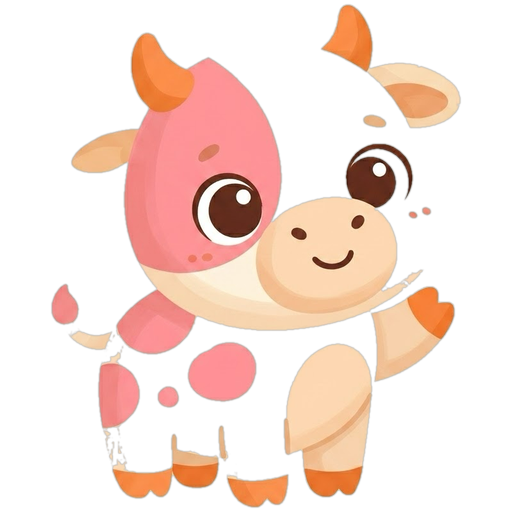
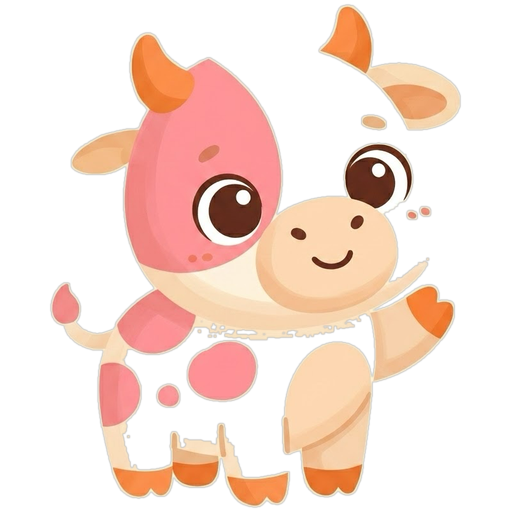
fix(art): tighten keying + dilate + render high quality
The flood-fill at threshold 60 was leaking 1-2 px into character
silhouettes on the most cream-close characters (sheep wool edges,
duck belly edges) — visible in the running app as eroded outlines
when the sprite was scaled down to ~140 dp on the meadow.

Two changes:
1. optimize_art.py — lowered FLOOD_THRESH 60 → 42 and added a 2 px
   MaxFilter dilation pass on the alpha mask before the Gaussian
   feather. The dilation recovers any character-edge pixel the
   conservative flood erroneously caught. Net effect: clean
   transparent backgrounds AND intact character silhouettes.
2. AnimalView — bumped Image.asset filterQuality from default to
   FilterQuality.high so the on-screen downscale doesn't drop
   low-alpha edge pixels.

Re-rendered all 7 zoo sprite assets and the matching goldens.

diff --git a/lib/features/games/zoo/animal_view.dart b/lib/features/games/zoo/animal_view.dart
@@ -91,6 +91,7 @@ class _AnimalViewState extends ConsumerState<AnimalView>
           widget.config.assetPath,
           width: widget.tileSize,
           height: widget.tileSize,
+          filterQuality: FilterQuality.high,
         ),
       ),
     );

diff --git a/scripts/optimize_art.py b/scripts/optimize_art.py
@@ -57,13 +57,20 @@ ASSETS: list[tuple[str, str, str]] = [
 SPRITE_SIZE = 512
 SCENE_WIDTH = 2048
 # Floodfill threshold — distance between a candidate pixel and its
-# flood-fill seed (corner pixel). Generous enough to bridge subtle
-# watercolor-texture variations in the cream background.
-FLOOD_THRESH = 60
+# flood-fill seed (corner pixel). Conservative so we never leak into
+# character interiors (sheep wool, duck belly are dangerously close to
+# the background cream). The dilation step below recovers any pixels
+# we wrongly pulled in.
+FLOOD_THRESH = 42
 
 # Magenta marker — placed by floodfill into background regions so we can
 # distinguish them. The character art never contains pure magenta.
 MARKER = (255, 0, 255)
+
+# Pixels to push the opaque mask outward after flood-fill. Recovers any
+# character edge that the flood erroneously caught. Larger = safer but
+# leaves more residual halo.
+ALPHA_DILATE_PX = 2
 
 # Edge feather radius in pixels — softens the alpha boundary so character
 # silhouettes don't look hard-edged against the scene.
@@ -113,9 +120,15 @@ def background_to_alpha(img: Image.Image) -> Image.Image:
                 r, g, b, _ = img_px[x, y]
                 img_px[x, y] = (r, g, b, 0)
 
-    # Soft-feather the alpha boundary so character edges don't read as
-    # hard-cut. We extract the alpha plane, blur it, paste it back.
-    a = img.getchannel("A").filter(ImageFilter.GaussianBlur(ALPHA_FEATHER))
+    # Dilate the opaque region a couple of pixels — this recovers any
+    # character edge pixels that the conservative flood-fill happened to
+    # catch (especially on light-cream silhouettes like the sheep's wool
+    # or the duck's belly).
+    a = img.getchannel("A")
+    a = a.filter(ImageFilter.MaxFilter(size=2 * ALPHA_DILATE_PX + 1))
+
+    # Then soft-feather so character edges don't read as hard-cut.
+    a = a.filter(ImageFilter.GaussianBlur(ALPHA_FEATHER))
     img.putalpha(a)
     return img
 
